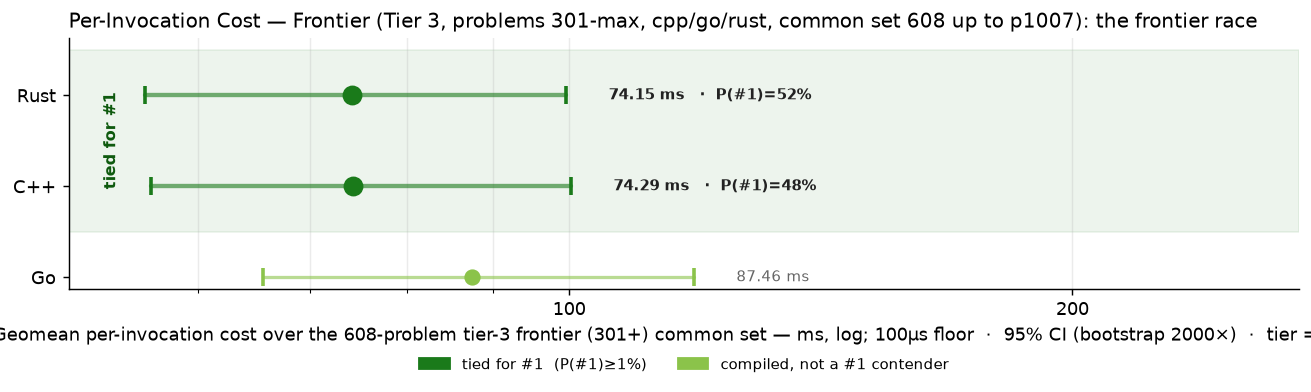
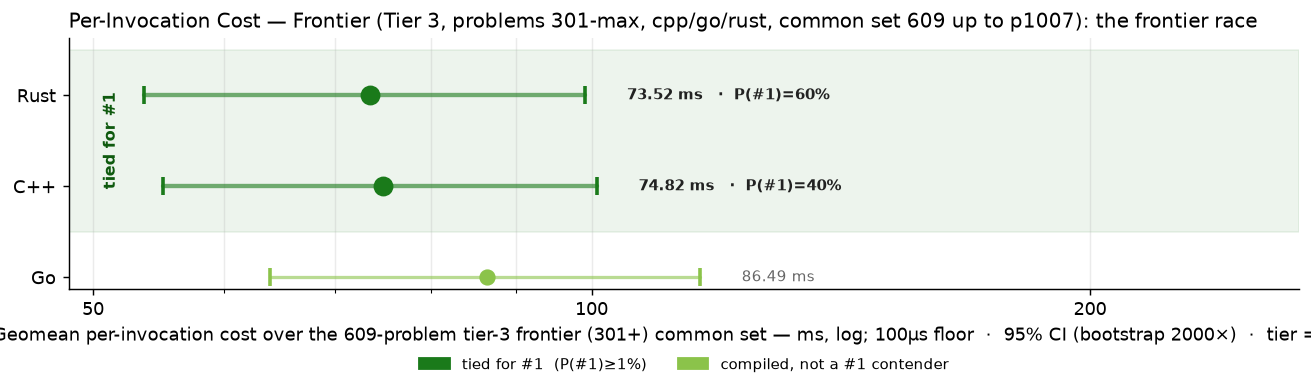
go p0599

diff --git a/RESULTS.md b/RESULTS.md
@@ -1,6 +1,6 @@
 # Project Euler — Cross-Language Benchmarks
 
-> **Scope: 4521 in-scope cells across 1007 problems × tiered languages — 4336 measured (95.9% coverage).**
+> **Scope: 4521 in-scope cells across 1007 problems × tiered languages — 4337 measured (95.9% coverage).**
 > The cross-language ranking below is computed over the **200-problem common set** (problems in 1-200 where every language has a passing measurement) — the apples-to-apples Foundation comparison surface.  Per-tier rankings and coverage detail appear further below.
 > Growing carefully — each new problem and language is audited for state-leak
 > safety, verified for answer correctness, and added only when it cleanly fits the
@@ -70,15 +70,15 @@ Same scatter as the Foundation chart, restricted to the tier-2 active languages 
 
 The frontier verification trio — C++, Go, Rust — on problems above 300. 3-way cross-language agreement is the verification protocol (strictly stronger than 2-way; see JOURNEY.md "Tier Reframing" episode for the p254 lesson that motivated it). Python and Zig are explicitly out of this tier — python's wall cost makes it impractical at level 5+, and zig's role caps at Tier 2.
 
-### Per-Invocation Cost (Common Set, 608 of ≤707 problems in scope)
+### Per-Invocation Cost (Common Set, 609 of ≤707 problems in scope)
 
 ![Per-Invocation Cost — Tier 3](charts/per_iter_total_tier3.png)
 
-| Rank | Language | Geomean (608-problem common set) | Total (sum) | Lines of code | vs Fastest |
+| Rank | Language | Geomean (609-problem common set) | Total (sum) | Lines of code | vs Fastest |
 |------|----------|--------------------:|------------:|--------------:|-----------:|
-| 1 | **Rust** | 74.15 ms | 1700.78 s | 114,871 | 1.00× |
-| 2 | **C++** | 74.29 ms | 1812.16 s | 86,483 | 1.00× |
-| 3 | **Go** | 87.46 ms | 2077.23 s | 109,259 | 1.18× |
+| 1 | **Rust** | 73.52 ms | 1700.78 s | 115,053 | 1.00× |
+| 2 | **C++** | 74.82 ms | 1817.90 s | 86,651 | 1.02× |
+| 3 | **Go** | 86.49 ms | 2077.23 s | 109,506 | 1.18× |
 
 ### Speed vs Code Size
 

diff --git a/per_problem/per_problem_0501-0600.md b/per_problem/per_problem_0501-0600.md
@@ -106,7 +106,7 @@ in tier-1 display order (native → managed → interpreted).
 | **p0596** | 491.29 ms | 463.12 ms | 656.08 ms |
 | **p0597** | 129.16 ms | 47.06 ms | 30.86 ms |
 | **p0598** | 7.08 s | 97.01 s | 1.06 s |
-| **p0599** | 5.74 s | 397.6 µs | — |
+| **p0599** | 5.74 s | 397.6 µs | 17.0 µs~ |
 | **p0600** | 231.98 ms | 1.39 s | 967.40 ms |
 
 > ‖ — *parallel-class problem* (METHODOLOGY.md §5): every tier language fields its idiomatic parallel implementation; (×N) is the achieved parallel speedup (CPU time / wall time). These rows are never directly comparable to serial-class rows.
